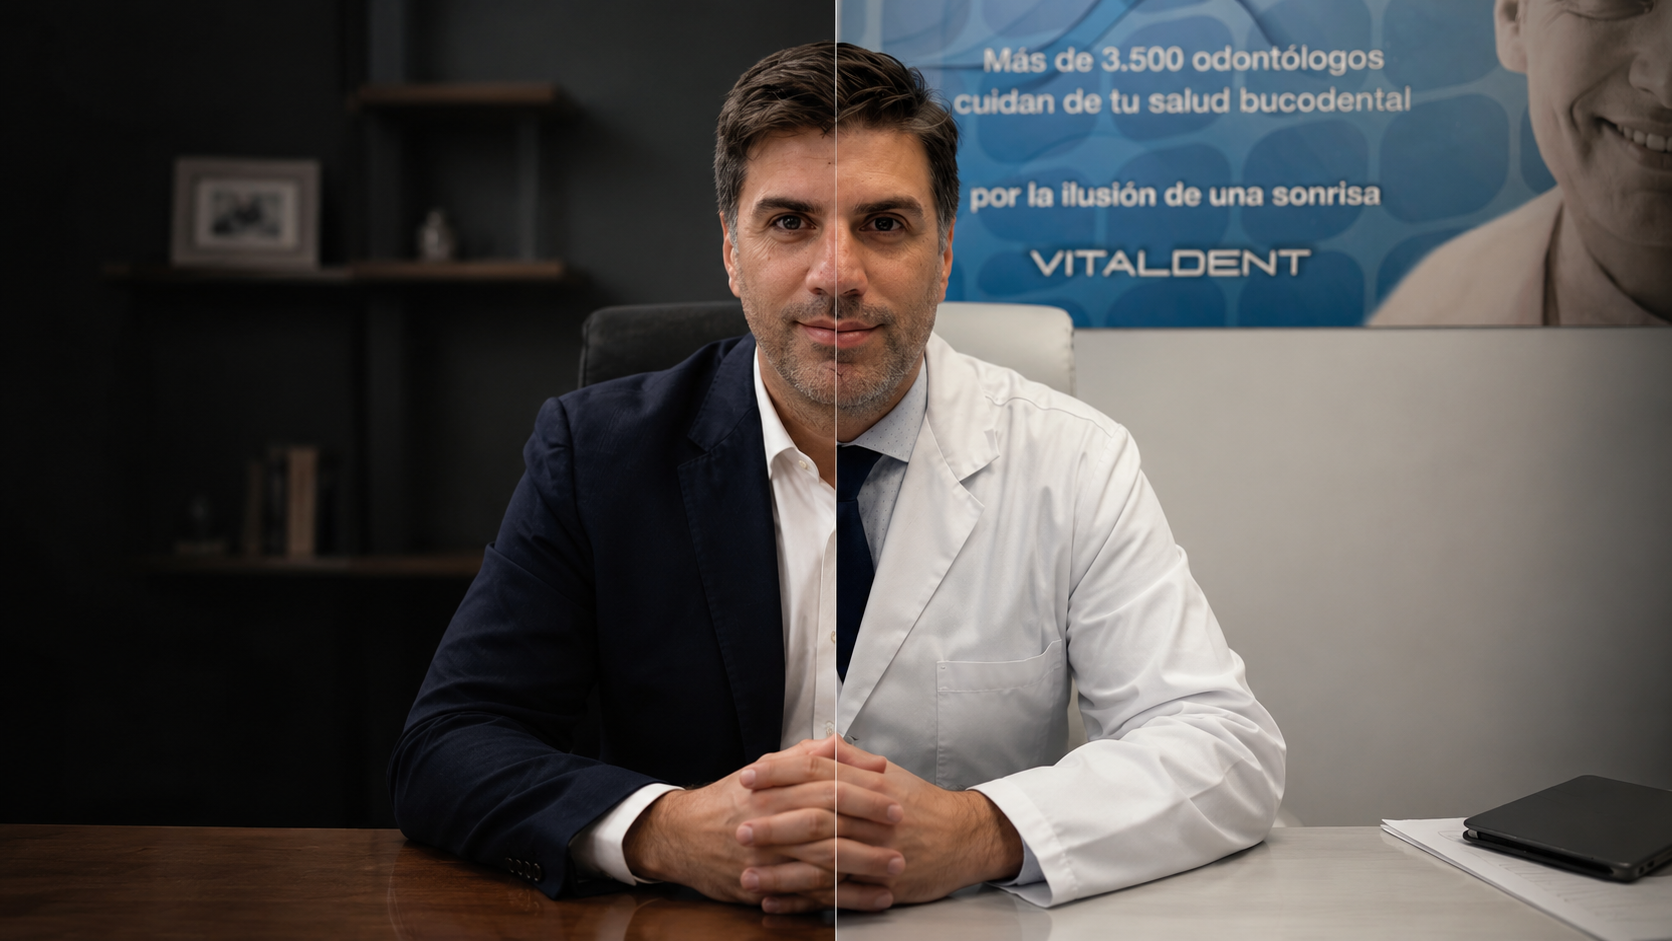
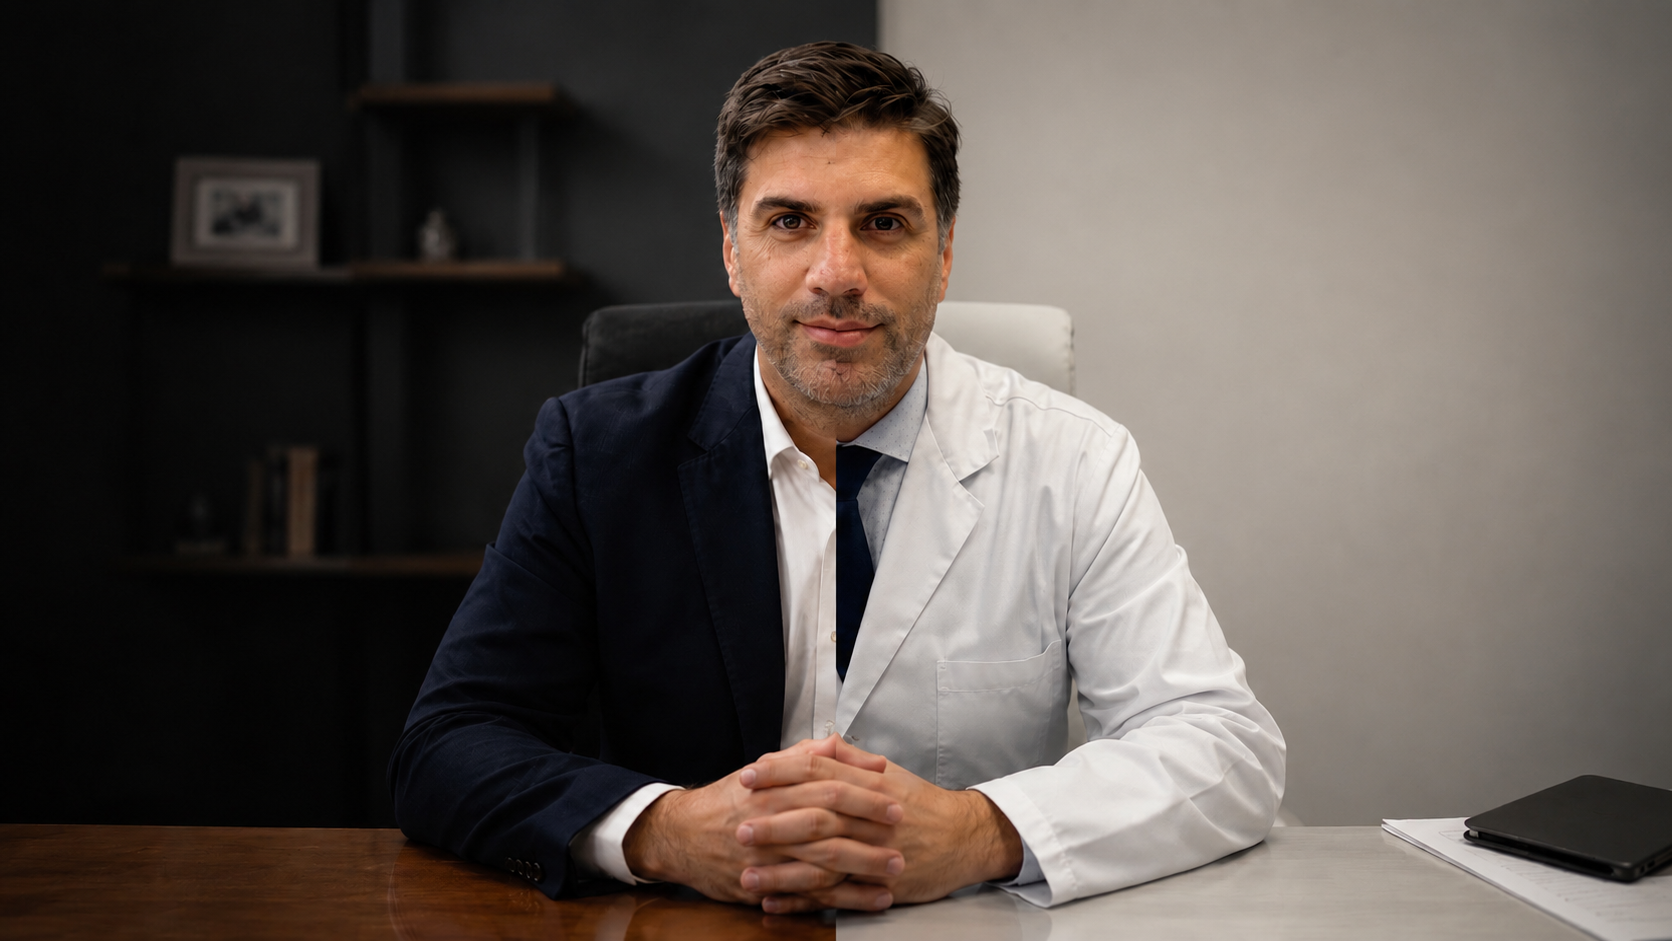
Versión Gold

Changed region(s): [[0.4354, 0.0, 1.0, 0.8321], [0.8397, 0.8937, 1.0, 1.0]]

diff --git a/style.css b/style.css
@@ -167,14 +167,22 @@ h1{
   color:#050505;
 }
 
-.hero-image{
-  height:78vh;
+.hero-image img{
+
+  width:100%;
+
+  height:100%;
+
+  object-fit:contain;
+
+  max-width:520px;
+
   max-height:720px;
-  display:flex;
-  align-items:flex-end;
-  justify-content:center;
-  position:relative;
-  overflow:hidden;
+
+  filter:grayscale(100%) contrast(1.08);
+
+  opacity:.92;
+
 }
 
 .hero-image::after{

diff --git a/rusia0314/index.html b/rusia0314/index.html
@@ -192,31 +192,31 @@
         <article class="location-card reveal">
           <img src="assets/img/localizaciones/Murmansk.avif" alt="Múrmansk" onerror="this.src='assets/img/localizaciones/placeholder-localizacion.svg'" />
           <h3>Múrmansk</h3>
-          <p>Puerto ártico, sede de la Flota del Norte y punto de entrada al vacío.</p>
+          <p>Puerto ártico, sede de la Flota del Norte y puerta de entrada por el norte  a Rusia.</p>
         </article>
 
         <article class="location-card reveal">
           <img src="assets/img/localizaciones/Moscu.avif" alt="Moscú" onerror="this.src='assets/img/localizaciones/placeholder-localizacion.svg'" />
           <h3>Moscú</h3>
-          <p>El centro político desaparecido. La capital que el mundo espera que responda.</p>
+          <p>El centro político de Rusia y sede de su gobierno.</p>
         </article>
 
         <article class="location-card reveal">
           <img src="assets/img/localizaciones/Peterburgo.avif" alt="San Petersburgo" onerror="this.src='assets/img/localizaciones/placeholder-localizacion.svg'" />
           <h3>San Petersburgo</h3>
-          <p>La Rusia imperial y cultural convertida en una ciudad de canales vacíos.</p>
+          <p>La Rusia imperial, a escasos kilómetros de Finlandia. Famosa por sus noches blancas de verano.</p>
         </article>
 
         <article class="location-card reveal">
           <img src="assets/img/localizaciones/ramstein.jpg" alt="Base de Ramstein" onerror="this.src='assets/img/localizaciones/placeholder-localizacion.svg'" />
           <h3>Ramstein</h3>
-          <p>Nodo militar occidental. Desde allí, la crisis rusa se convierte en operación.</p>
+          <p>Uno de los principales centros militares estadounidenses en Europa y pieza clave de las operaciones de la OTAN.</p>
         </article>
 
         <article class="location-card reveal">
           <img src="assets/img/localizaciones/BeLGOROD.avif" alt="Bélgorod" onerror="this.src='assets/img/localizaciones/placeholder-localizacion.svg'" />
           <h3>Bélgorod</h3>
-          <p>Frontera, guerra y sospecha. Un punto donde el silencio ruso se toca con Ucrania.</p>
+          <p>La ciudad más importante de la región de Belgorod, en la frontera con Ucrania.</p>
         </article>
 
         <article class="location-card reveal">
@@ -228,7 +228,7 @@
         <article class="location-card reveal">
           <img src="assets/img/localizaciones/estambul.avif" alt="Estambul" onerror="this.src='assets/img/localizaciones/placeholder-localizacion.svg'" />
           <h3>Estambul</h3>
-          <p>El tránsito entre mundos. La ciudad donde una ruta civil se convierte en tragedia.</p>
+          <p>El tránsito entre mundos. La puerta de acceso al Mar Negro.</p>
         </article>
       </div>
     </section>